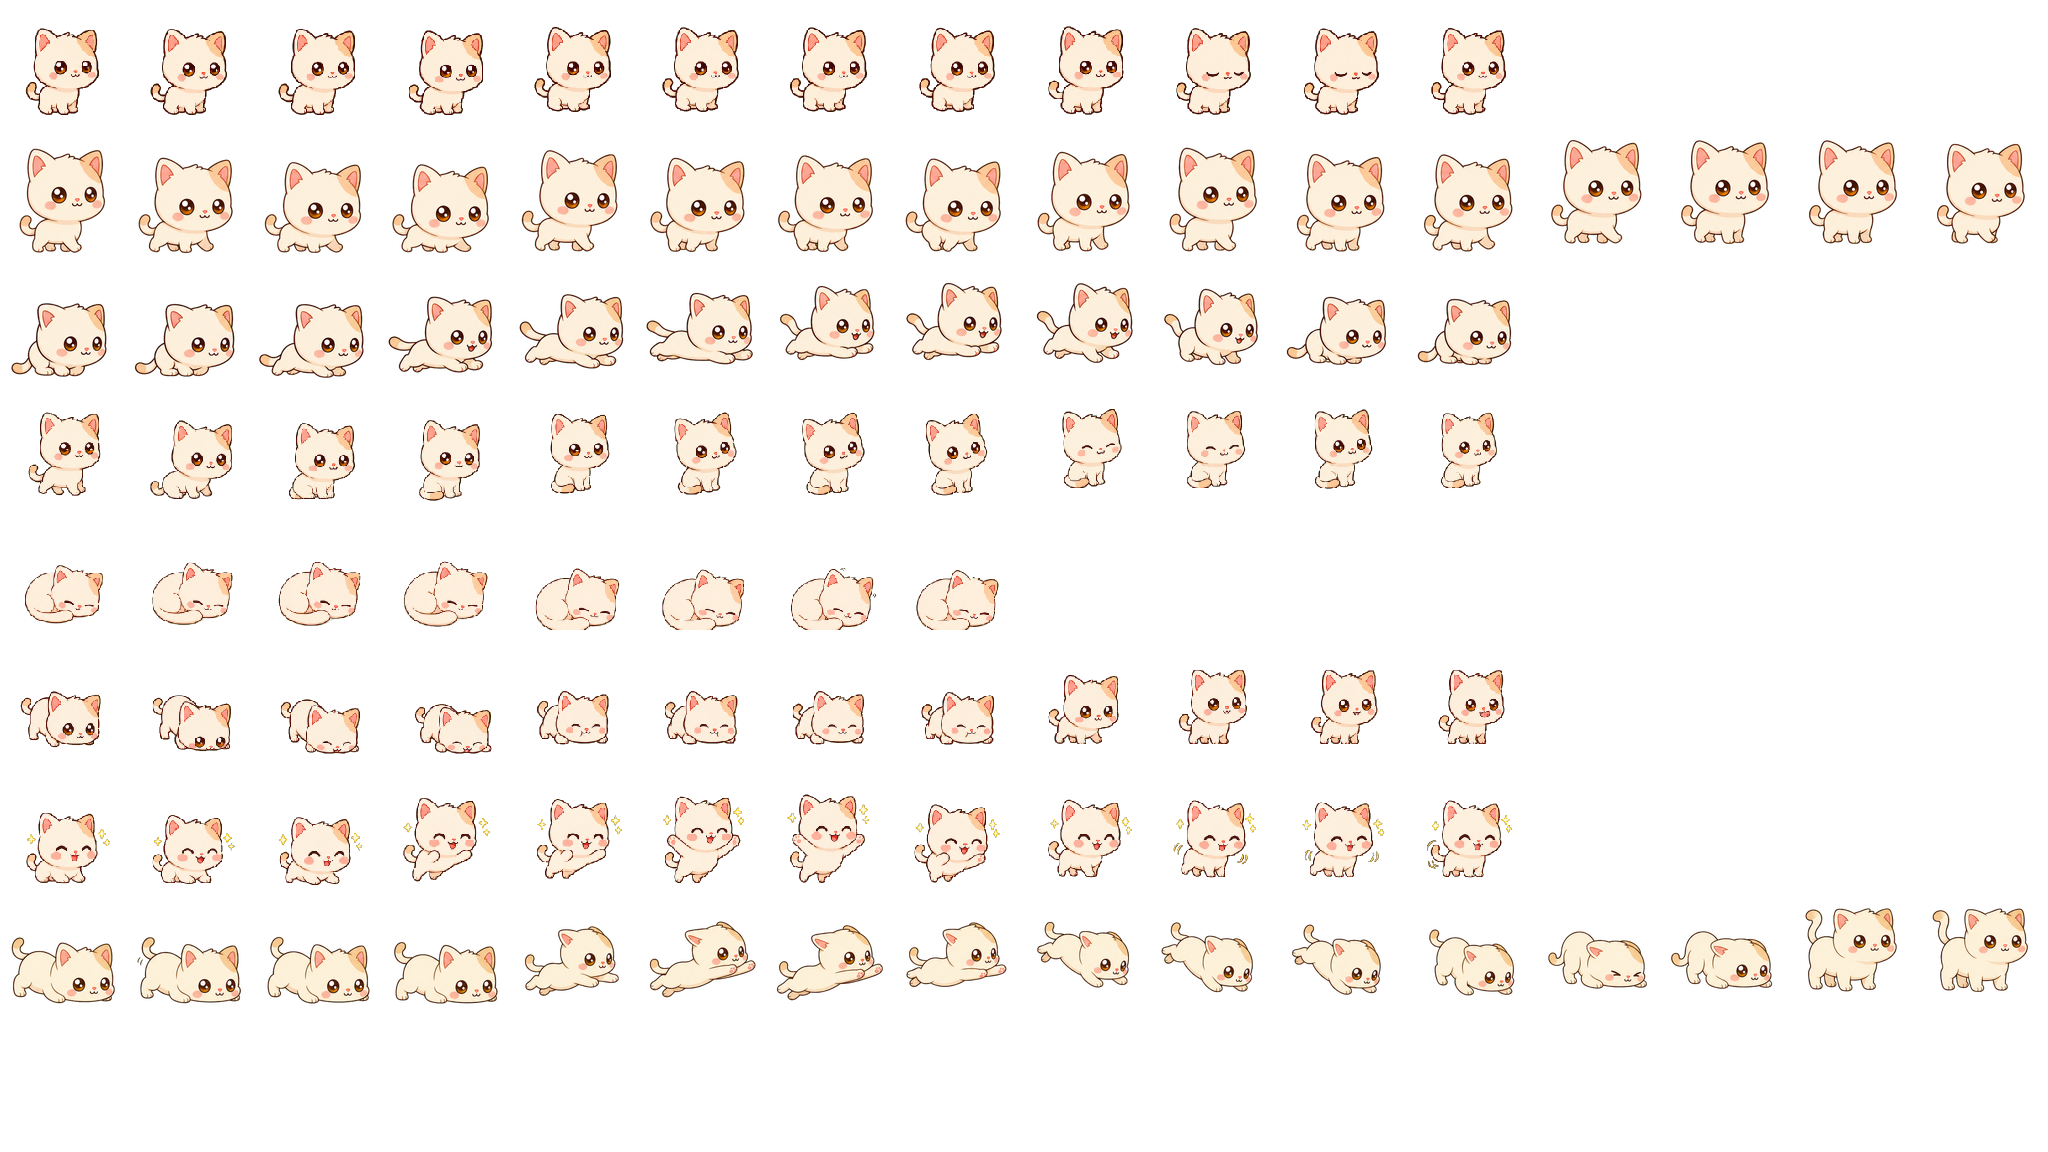
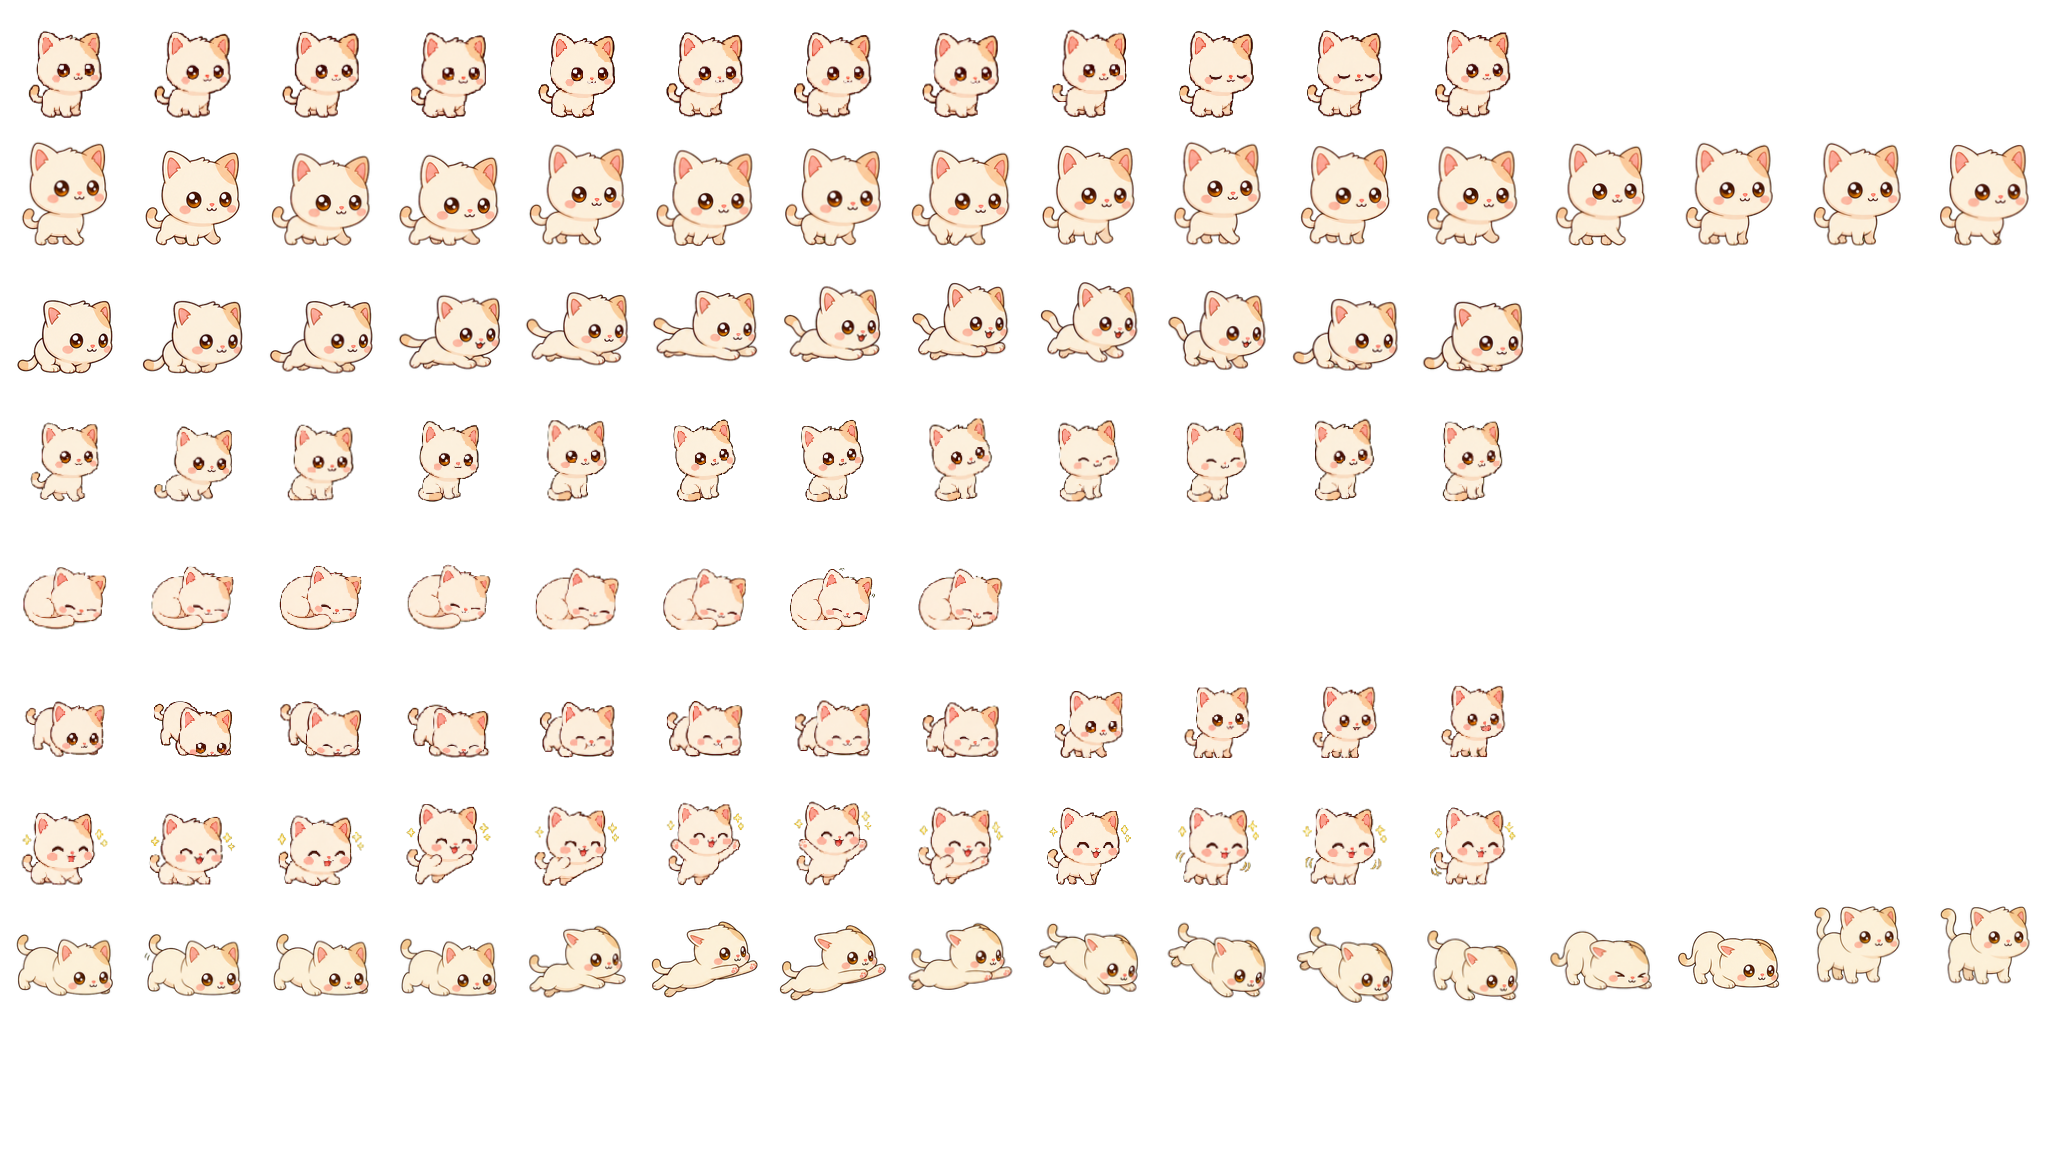
Add sheet stabilizer: kill per-frame jitter and size pulsing in AI art
gpt-image draws every frame independently, so within one animation row
the character drifts a few px in position and up to 40% in pixel mass —
at 12-24fps the pet visibly shook while idle and pulsed in size during
animations, even after per-row scale tuning.

scripts/stabilize-sheets.mjs (npm run stabilize) rewrites each sheet in
place: re-centers every frame horizontally, pins grounded rows to one
feet baseline (airborne run/pounce keep their arcs), normalizes
per-frame size toward the row's median pixel mass (clamped so real
squash/stretch survives, bilinear premultiplied resampling), and derives
each animation's cross-row "scale" from mass ratios against the walk
row instead of hand-tuned values.

Measured after stabilizing: grounded rows go from 3-13px baseline jitter
to 0px, center wobble to ±1px, mass variation from up to 40% to 2-7%.
Validator passes with zero warnings; docs updated to include the
stabilize step in the art pipeline.

Claude-Session: https://claude.ai/code/session_012EvBwuBMHoYEdzcWw7qfqm

diff --git a/docs/ADDING_A_SPECIES.md b/docs/ADDING_A_SPECIES.md
@@ -8,7 +8,7 @@
    - `speeds` ปรับความเร็วเดิน/วิ่ง (px/วินาที)
    - `headBox` โซนลูบหัว (พิกัดใน frame 128×128)
 3. สร้าง `sheet.png` ตาม `docs/SPRITE_CONTRACT.md` — ใช้ prompt จาก `docs/SPRITE_PROMPTS.md` (แค่เปลี่ยน Character Reference เป็นตัวใหม่)
-4. ตรวจ: `npm run sheets`
+4. Stabilize + ตรวจ: `npm run stabilize && npm run sheets`
 5. รีสตาร์ทแอป → species ใหม่โผล่ในเมนู tray "Choose pet" อัตโนมัติ
 
 ยังไม่มีภาพจริง? รัน `npm run placeholders` ไม่ได้ช่วย species ใหม่ (generator รู้จักแค่ cat/dog) — ก็อป `sheet.png` ของ cat มาวางชั่วคราวก่อนได้